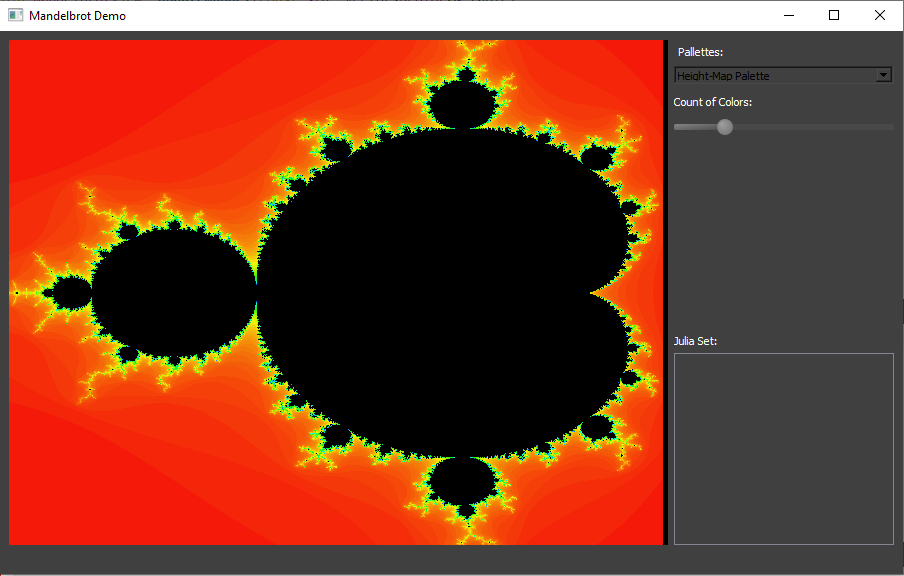
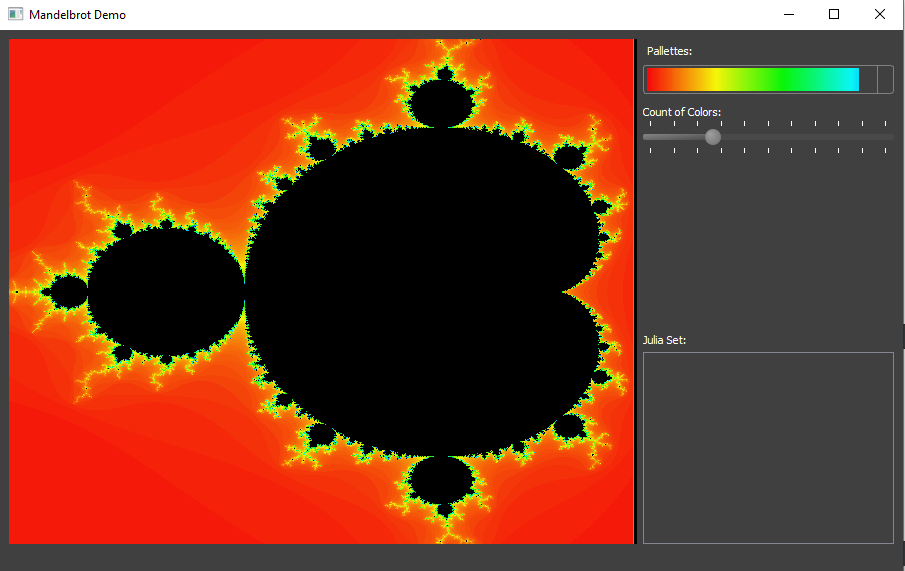
changed UI style sheet

diff --git a/style/stylesheet.css b/style/stylesheet.css
@@ -62,3 +62,49 @@ QSlider::handle:horizontal:hover {
     border: 0px solid #444;
     border-radius: 4px;
 }
+
+QComboBox {
+    border: 1px solid gray;
+    border-radius: 3px;
+    padding: 1px 18px 1px 3px;
+    min-width: 6em;
+}
+
+QComboBox:on {
+    padding-top: 3px;
+    padding-left: 4px;
+}
+
+QComboBox::drop-down {
+    subcontrol-origin: padding;
+    subcontrol-position: top right;
+    width: 15px;
+
+    border-left-width: 1px;
+    border-left-color: gray;
+    border-left-style: solid;
+    border-top-right-radius: 3px;
+    border-bottom-right-radius: 3px;
+}
+/*
+QComboBox::down-arrow:on { // shift the arrow when popup is open
+    top: 1px;
+    left: 1px;
+}
+QComboBox:editable {
+    margin-right: 29px;
+}
+QComboBox::drop-down:editable {
+    border-width: 10px;
+    subcontrol-origin: margin;
+    subcontrol-position: center right;
+    width: 7px;
+    height: 6px;
+}
+QComboBox:!editable:on,
+QPushButton:pressed {
+    color: lightgray;
+    padding-top: -15px;
+    padding-bottom: -17px;
+}
+*/

diff --git a/mainwindow.cpp b/mainwindow.cpp
@@ -1,6 +1,8 @@
 #include "mainwindow.h"
 #include "ui_mainwindow.h"
 #include <QColor>
+#include <QPixmap>
+#include <QIcon>
 
 const int INT_DRAW_TIME = 100;
 
@@ -12,8 +14,9 @@ MainWindow::MainWindow(QWidget *parent)
     colorTable.Generate(MAX_INTERATION, Palette::ePalHeightMap);
 
     ui->setupUi(this);
-    for(int i = 0; i < eCntPalette; i++)
-        ui->cbPalette->addItem(NAMES_PALETTE[i]);
+
+    //for(int i = 0; i < eCntPalette; i++)
+    //    ui->cbPalette->addItem(NAMES_PALETTE[i]);
 
     ui->gvMandel->setRender(&mandelbrot);
 
@@ -29,6 +32,7 @@ void MainWindow::paintEvent(QPaintEvent * /*event*/)
 {
     if(!isStarted) {
         isStarted = true;
+        initialize_color();
         qDebug() << "First Paint";
         return;
     }
@@ -37,6 +41,7 @@ void MainWindow::paintEvent(QPaintEvent * /*event*/)
 
 void MainWindow::resizeEvent(QResizeEvent * event)
 {
+    ui->cbPalette->setIconSize(QSize(ui->cbPalette->width(), 23));
 }
 
 void MainWindow::onChangedPalette(int newPalette)
@@ -57,6 +62,26 @@ void MainWindow::updatePalette()
     int idxPal = ui->cbPalette->currentIndex();
     colorTable.Generate(cnt, (Palette)idxPal);
     ui->gvMandel->UpdatePalette(colorTable.table());
+}
+
+void MainWindow::initialize_color()
+{
+    double pix_width = ui->cbPalette->width(); // Since the array size is 256, so the picture size need to go to a multiple of 256
+    double pix_height = 23;
+    double step = pix_width / 256.0;
+    for(int iPal = 0; iPal < eCntPalette; iPal++) {
+        ColorLut lut1(256, (Palette)iPal);
+        QPixmap pix(QSize(pix_width, pix_height));
+        QPainter painter(&pix);
+        for(int i = 0; i < 256; i++) {
+            QRgb col = lut1.at(i);
+            QRectF source(step * i, 0, step, pix_height);
+            painter.fillRect(source, col);
+        }
+        ui->cbPalette->addItem(QIcon(pix), ""/*NAMES_PALETTE[iPal]*/);
+        ui->cbPalette->setIconSize(QSize(pix_width, pix_height));
+        ui->cbPalette->setSizeAdjustPolicy(QComboBox::AdjustToContents);
+    }
 }
 
 void MainWindow::onDoneUpdate()

diff --git a/custom_ctrl/customslider.cpp b/custom_ctrl/customslider.cpp
@@ -47,6 +47,14 @@ void CustomSlider::paintEvent(QPaintEvent * event)
         interval = pageStep();
     }
 
+    // draw the slider (this is basically copy/pasted from QSlider::paintEvent)
+    opt.subControls = QStyle::SC_SliderGroove;
+    p.drawComplexControl(QStyle::CC_Slider, opt);
+
+    // draw the slider handle
+    opt.subControls = QStyle::SC_SliderHandle;
+    p.drawComplexControl(QStyle::CC_Slider, opt);
+
     if (tickPosition() != NoTicks)
     {
         if (orientation() == Qt::Vertical) {
@@ -91,11 +99,4 @@ void CustomSlider::paintEvent(QPaintEvent * event)
         }
     }
 
-    // draw the slider (this is basically copy/pasted from QSlider::paintEvent)
-    opt.subControls = QStyle::SC_SliderGroove;
-    p.drawComplexControl(QStyle::CC_Slider, opt);
-
-    // draw the slider handle
-    opt.subControls = QStyle::SC_SliderHandle;
-    p.drawComplexControl(QStyle::CC_Slider, opt);
 }

diff --git a/fractalrenderer.cpp b/fractalrenderer.cpp
@@ -41,6 +41,11 @@ bool FractalRenderer::setDimensions(int _w, int _h)
     return change;
 }
 
+void FractalRenderer::updateJulia(int _x, int _y)
+{
+
+}
+
 void FractalRenderer::runRenderer(unsigned threadsCount)
 {
     if(threadsCount==0){threadsCount=1;}

diff --git a/mandelbrotview.cpp b/mandelbrotview.cpp
@@ -55,6 +55,9 @@ void MandelBrotView::mousePressEvent(QMouseEvent *event)
     QPoint pos = event->pos();
     setJulia = true;
     posJulia = pos;
+    if(render) {
+        render->updateJulia(pos.x(), pos.y());
+    }
     update();
 }
 

diff --git a/mainwindow.h b/mainwindow.h
@@ -25,6 +25,7 @@ public:
 private:
 //    QColor value(int x, int y);
     void updatePalette();
+    void initialize_color();
 public slots:
     void onChangedPalette(int newPalette);
     void onChangedCount(int newCountOfColor);

diff --git a/fractalrenderer.h b/fractalrenderer.h
@@ -32,6 +32,7 @@ public:
     {
         return widthEx * height;
     }
+    void updateJulia(int x, int y);
 private:    
     int             width;    
     int             height;
